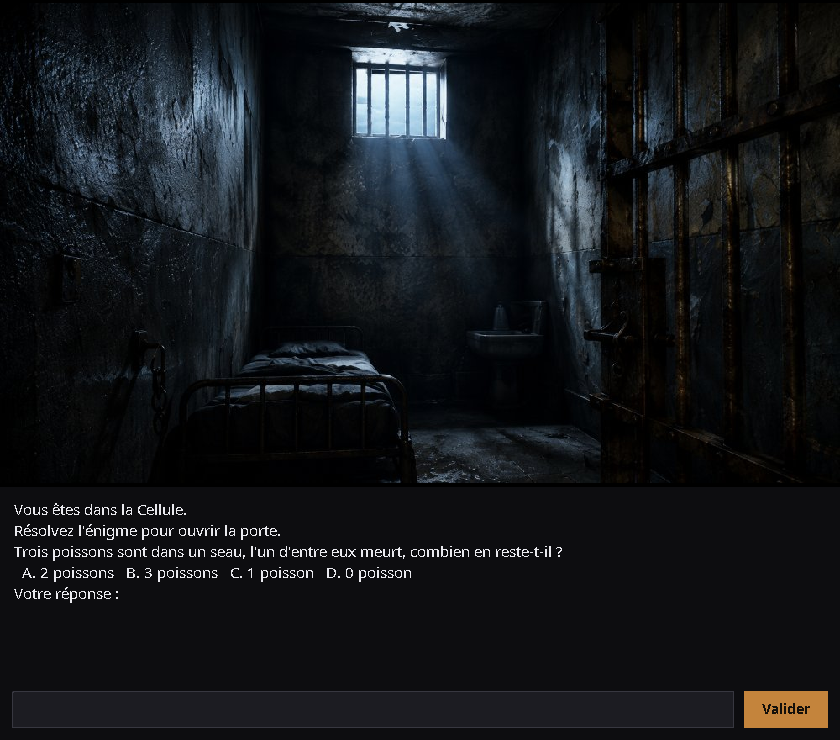
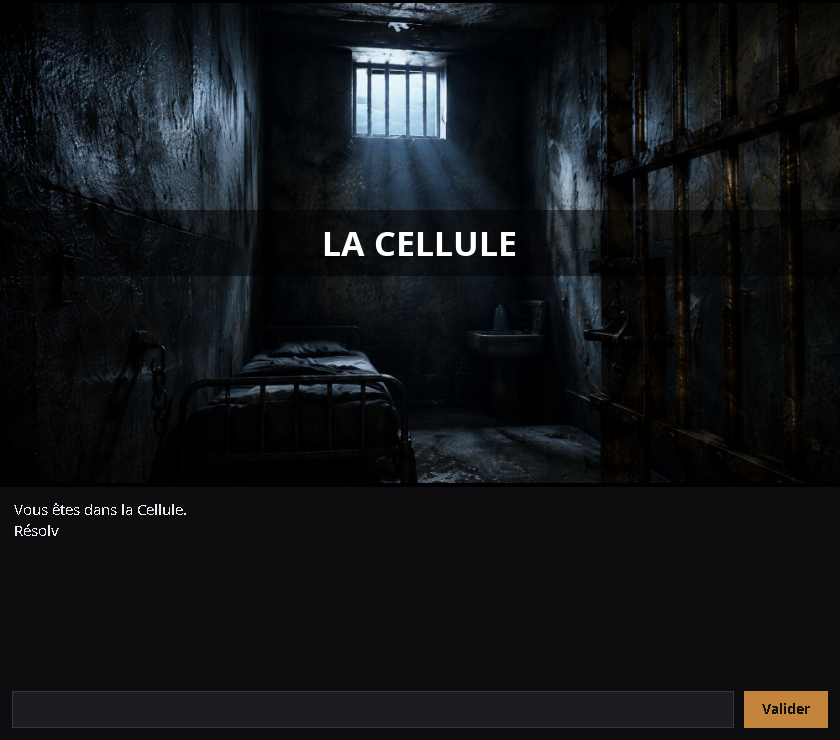
Ajoute l'effet machine à écrire et les transitions de zone animées
- texte affiché lettre par lettre : frapper() bloque le thread moteur jusqu'à la fin
  de la frappe (Timer Swing sur l'EDT), un clic sur le texte/l'image accélère l'affichage
- transition d'étape : fondu enchaîné de l'image + carton-titre de la zone qui apparaît
  puis disparaît (apparition / maintien / disparition)
- aperçu et README mis à jour (animations documentées)

Vérifié : partie complète jouée de bout en bout via l'UI (victoire) sans interblocage
entre le thread moteur et l'EDT.

diff --git a/src/main/java/com/escapegame/ui/FenetreJeu.java b/src/main/java/com/escapegame/ui/FenetreJeu.java
@@ -3,9 +3,9 @@ package com.escapegame.ui;
 import com.escapegame.auth.DepotJoueurs;
 import com.escapegame.game.Partie;
 import com.escapegame.io.EntreeSortie;
+import com.escapegame.world.Zone;
 
 import javax.swing.BorderFactory;
-import javax.swing.Box;
 import javax.swing.BoxLayout;
 import javax.swing.JButton;
 import javax.swing.JFrame;
@@ -14,15 +14,24 @@ import javax.swing.JScrollPane;
 import javax.swing.JTextArea;
 import javax.swing.JTextField;
 import javax.swing.SwingUtilities;
+import javax.swing.Timer;
+import java.awt.AlphaComposite;
 import java.awt.BorderLayout;
 import java.awt.Color;
+import java.awt.Composite;
+import java.awt.Cursor;
 import java.awt.Dimension;
 import java.awt.Font;
+import java.awt.FontMetrics;
 import java.awt.Graphics;
-import java.awt.Image;
+import java.awt.Graphics2D;
+import java.awt.RenderingHints;
+import java.awt.event.MouseAdapter;
+import java.awt.event.MouseEvent;
 import java.awt.image.BufferedImage;
 import java.util.Random;
 import java.util.concurrent.BlockingQueue;
+import java.util.concurrent.CountDownLatch;
 import java.util.concurrent.LinkedBlockingQueue;
 
 /**
@@ -31,8 +40,16 @@ import java.util.concurrent.LinkedBlockingQueue;
  *
  * <p>Implémente {@link EntreeSortie} : c'est exactement la même interface que la console,
  * donc le moteur {@link Partie} fonctionne sans modification. Le moteur s'exécute sur un
- * thread dédié ; les saisies transitent par une file bloquante alimentée par l'EDT,
- * tandis que tous les affichages sont renvoyés sur l'EDT via {@code invokeLater}.</p>
+ * thread dédié ; les saisies transitent par une file bloquante alimentée par l'EDT.</p>
+ *
+ * <p>Deux animations rythment la partie :</p>
+ * <ul>
+ *   <li><b>texte lettre par lettre</b> : chaque message s'écrit caractère par caractère ;
+ *       le thread moteur attend la fin de la frappe avant de continuer (un clic sur le
+ *       texte ou l'image accélère l'affichage) ;</li>
+ *   <li><b>transition de zone</b> : à chaque nouvelle étape, l'image change en fondu
+ *       enchaîné et le nom de la zone apparaît brièvement en carton-titre.</li>
+ * </ul>
  */
 public class FenetreJeu extends JFrame implements EntreeSortie {
 
@@ -44,6 +61,9 @@ public class FenetreJeu extends JFrame implements EntreeSortie {
     private static final Color TEXTE = new Color(233, 233, 238);
     private static final Color ACCENT = new Color(196, 132, 60);
 
+    /** Délai entre deux caractères de l'effet machine à écrire. */
+    private static final int DELAI_FRAPPE_MS = 11;
+
     private final PanneauImage panneauImage = new PanneauImage();
     private final JTextArea zoneTexte = new JTextArea();
     private final JTextField champSaisie = new JTextField();
@@ -51,6 +71,12 @@ public class FenetreJeu extends JFrame implements EntreeSortie {
 
     private final ImagesZones images = new ImagesZones();
     private final BlockingQueue<String> fileSaisie = new LinkedBlockingQueue<>();
+
+    // État de la frappe en cours (manipulé uniquement sur l'EDT).
+    private Timer timerFrappe;
+    private String resteAFrapper = "";
+    private CountDownLatch frappeTerminee;
+    private volatile boolean toutAfficher;
 
     public FenetreJeu() {
         super("Escape Game — L'Évasion");
@@ -71,10 +97,11 @@ public class FenetreJeu extends JFrame implements EntreeSortie {
         zoneTexte.setFont(new Font("SansSerif", Font.PLAIN, 15));
         zoneTexte.setBackground(FOND);
         zoneTexte.setForeground(TEXTE);
-        zoneTexte.setCaretColor(TEXTE);
+        zoneTexte.setCaretColor(FOND);
         zoneTexte.setSelectionColor(ACCENT);
         zoneTexte.setSelectedTextColor(Color.WHITE);
         zoneTexte.setBorder(BorderFactory.createEmptyBorder(12, 14, 12, 14));
+        zoneTexte.setToolTipText("Cliquez pour accélérer le texte");
 
         JScrollPane defilement = new JScrollPane(zoneTexte);
         defilement.setPreferredSize(new Dimension(820, 200));
@@ -94,11 +121,22 @@ public class FenetreJeu extends JFrame implements EntreeSortie {
         boutonValider.setForeground(new Color(20, 16, 10));
         boutonValider.setFocusPainted(false);
         boutonValider.setBorder(BorderFactory.createEmptyBorder(8, 18, 8, 18));
-        boutonValider.setCursor(new java.awt.Cursor(java.awt.Cursor.HAND_CURSOR));
+        boutonValider.setCursor(new Cursor(Cursor.HAND_CURSOR));
 
         // Entrée ou clic sur Valider → on soumet la saisie.
         champSaisie.addActionListener(e -> soumettre());
         boutonValider.addActionListener(e -> soumettre());
+
+        // Un clic sur le texte ou l'image accélère la frappe en cours.
+        MouseAdapter accelerer = new MouseAdapter() {
+            @Override
+            public void mousePressed(MouseEvent e) {
+                toutAfficher = true;
+                finirFrappe();
+            }
+        };
+        zoneTexte.addMouseListener(accelerer);
+        panneauImage.addMouseListener(accelerer);
 
         JPanel barreSaisie = new JPanel(new BorderLayout(10, 0));
         barreSaisie.setBackground(FOND);
@@ -140,7 +178,8 @@ public class FenetreJeu extends JFrame implements EntreeSortie {
     private void soumettre() {
         String texte = champSaisie.getText();
         champSaisie.setText("");
-        ajouterTexte(texte + "\n");     // écho de la saisie
+        toutAfficher = false;        // la prochaine salve de texte se réécrit lettre par lettre
+        ajouterTexte(texte + "\n");  // écho de la saisie (immédiat)
         fileSaisie.offer(texte);
     }
 
@@ -156,12 +195,12 @@ public class FenetreJeu extends JFrame implements EntreeSortie {
 
     @Override
     public void afficher(String message) {
-        ajouterTexte(message + "\n");
+        frapper(message + "\n");
     }
 
     @Override
     public void afficherSansSaut(String message) {
-        ajouterTexte(message);
+        frapper(message);
     }
 
     @Override
@@ -188,44 +227,200 @@ public class FenetreJeu extends JFrame implements EntreeSortie {
 
     @Override
     public void afficherZone(int position) {
-        SwingUtilities.invokeLater(() -> panneauImage.definirImage(images.pourZone(position)));
+        BufferedImage img = images.pourZone(position);
+        String titre = Zone.nom(position);
+        SwingUtilities.invokeLater(() -> panneauImage.changerZone(img, titre));
+    }
+
+    // ---------- Effet machine à écrire ----------
+
+    /** Écrit le texte caractère par caractère et bloque l'appelant jusqu'à la fin. */
+    private void frapper(String texte) {
+        CountDownLatch latch = new CountDownLatch(1);
+        SwingUtilities.invokeLater(() -> demarrerFrappe(texte, latch));
+        try {
+            latch.await();
+        } catch (InterruptedException e) {
+            Thread.currentThread().interrupt();
+        }
+    }
+
+    private void demarrerFrappe(String texte, CountDownLatch latch) {
+        frappeTerminee = latch;
+        if (toutAfficher) {                 // accéléré : on affiche d'un coup
+            resteAFrapper = "";
+            ajouterTexte(texte);
+            libererFrappe();
+            return;
+        }
+        resteAFrapper = texte;
+        timerFrappe = new Timer(DELAI_FRAPPE_MS, e -> {
+            if (resteAFrapper.isEmpty() || toutAfficher) {
+                finirFrappe();
+                return;
+            }
+            ajouterTexte(resteAFrapper.substring(0, 1));
+            resteAFrapper = resteAFrapper.substring(1);
+        });
+        timerFrappe.start();
+    }
+
+    /** Termine immédiatement la frappe en cours (fin naturelle ou accélération). */
+    private void finirFrappe() {
+        if (timerFrappe != null) {
+            timerFrappe.stop();
+            timerFrappe = null;
+        }
+        if (!resteAFrapper.isEmpty()) {
+            ajouterTexte(resteAFrapper);
+            resteAFrapper = "";
+        }
+        libererFrappe();
+    }
+
+    private void libererFrappe() {
+        if (frappeTerminee != null) {
+            frappeTerminee.countDown();
+            frappeTerminee = null;
+        }
     }
 
     private void ajouterTexte(String texte) {
-        SwingUtilities.invokeLater(() -> {
-            zoneTexte.append(texte);
-            zoneTexte.setCaretPosition(zoneTexte.getDocument().getLength());
-        });
+        zoneTexte.append(texte);
+        zoneTexte.setCaretPosition(zoneTexte.getDocument().getLength());
     }
 
-    /** Panneau qui peint l'image courante, mise à l'échelle et centrée (letterbox). */
+    /**
+     * Panneau d'image : peint l'illustration courante (mise à l'échelle, centrée), gère
+     * le fondu enchaîné lors d'un changement de zone et le carton-titre de la zone.
+     */
     private static final class PanneauImage extends JPanel {
         private static final long serialVersionUID = 1L;
-        private transient BufferedImage image;
+        private static final long DUREE_TITRE_MS = 1900;
+
+        private transient BufferedImage imageActuelle;
+        private transient BufferedImage imagePrecedente;
+        private float alphaFondu = 1f;
+
+        private transient String titre;
+        private long titreDebut;
+
+        private transient Timer timerFondu;
+        private transient Timer timerTitre;
 
         PanneauImage() {
             setBackground(Color.BLACK);
         }
 
-        void definirImage(BufferedImage image) {
-            this.image = image;
-            repaint();
+        void changerZone(BufferedImage image, String titre) {
+            this.imagePrecedente = this.imageActuelle;
+            this.imageActuelle = image;
+            this.alphaFondu = 0f;
+            this.titre = (titre == null) ? null : titre.toUpperCase();
+            this.titreDebut = System.currentTimeMillis();
+            demarrerFondu();
+            demarrerTitre();
+        }
+
+        private void demarrerFondu() {
+            if (timerFondu != null) {
+                timerFondu.stop();
+            }
+            timerFondu = new Timer(16, e -> {
+                alphaFondu += 0.05f;
+                if (alphaFondu >= 1f) {
+                    alphaFondu = 1f;
+                    imagePrecedente = null;
+                    timerFondu.stop();
+                }
+                repaint();
+            });
+            timerFondu.start();
+        }
+
+        private void demarrerTitre() {
+            if (timerTitre != null) {
+                timerTitre.stop();
+            }
+            timerTitre = new Timer(16, e -> {
+                if (System.currentTimeMillis() - titreDebut > DUREE_TITRE_MS) {
+                    titre = null;
+                    timerTitre.stop();
+                }
+                repaint();
+            });
+            timerTitre.start();
         }
 
         @Override
         protected void paintComponent(Graphics g) {
             super.paintComponent(g);
-            if (image == null) {
-                return;
+            Graphics2D g2 = (Graphics2D) g.create();
+            g2.setRenderingHint(RenderingHints.KEY_INTERPOLATION,
+                    RenderingHints.VALUE_INTERPOLATION_BILINEAR);
+            g2.setRenderingHint(RenderingHints.KEY_ANTIALIASING,
+                    RenderingHints.VALUE_ANTIALIAS_ON);
+            g2.setRenderingHint(RenderingHints.KEY_TEXT_ANTIALIASING,
+                    RenderingHints.VALUE_TEXT_ANTIALIAS_ON);
+
+            if (imagePrecedente != null && alphaFondu < 1f) {
+                dessinerImage(g2, imagePrecedente, 1f - alphaFondu);
             }
+            if (imageActuelle != null) {
+                dessinerImage(g2, imageActuelle, alphaFondu);
+            }
+            if (titre != null) {
+                float a = alphaTitre(System.currentTimeMillis() - titreDebut);
+                if (a > 0f) {
+                    dessinerTitre(g2, titre, a);
+                }
+            }
+            g2.dispose();
+        }
+
+        private void dessinerImage(Graphics2D g2, BufferedImage img, float alpha) {
+            float a = Math.max(0f, Math.min(1f, alpha));
+            Composite ancien = g2.getComposite();
+            g2.setComposite(AlphaComposite.getInstance(AlphaComposite.SRC_OVER, a));
             int pw = getWidth();
             int ph = getHeight();
-            double echelle = Math.min((double) pw / image.getWidth(), (double) ph / image.getHeight());
-            int w = (int) Math.round(image.getWidth() * echelle);
-            int h = (int) Math.round(image.getHeight() * echelle);
-            int x = (pw - w) / 2;
-            int y = (ph - h) / 2;
-            g.drawImage(image, x, y, w, h, this);
+            double echelle = Math.min((double) pw / img.getWidth(), (double) ph / img.getHeight());
+            int w = (int) Math.round(img.getWidth() * echelle);
+            int h = (int) Math.round(img.getHeight() * echelle);
+            g2.drawImage(img, (pw - w) / 2, (ph - h) / 2, w, h, this);
+            g2.setComposite(ancien);
+        }
+
+        private void dessinerTitre(Graphics2D g2, String texte, float alpha) {
+            int pw = getWidth();
+            int bandeH = 66;
+            int bandeY = getHeight() / 2 - bandeH / 2;
+
+            g2.setComposite(AlphaComposite.getInstance(AlphaComposite.SRC_OVER, 0.5f * alpha));
+            g2.setColor(Color.BLACK);
+            g2.fillRect(0, bandeY, pw, bandeH);
+
+            g2.setComposite(AlphaComposite.getInstance(AlphaComposite.SRC_OVER, alpha));
+            g2.setColor(Color.WHITE);
+            g2.setFont(new Font("SansSerif", Font.BOLD, 34));
+            FontMetrics fm = g2.getFontMetrics();
+            int tx = (pw - fm.stringWidth(texte)) / 2;
+            int ty = bandeY + (bandeH + fm.getAscent() - fm.getDescent()) / 2;
+            g2.drawString(texte, tx, ty);
+        }
+
+        /** Courbe d'opacité du carton-titre : apparition, maintien, disparition. */
+        private float alphaTitre(long ecoule) {
+            if (ecoule < 300) {
+                return ecoule / 300f;
+            }
+            if (ecoule < 1300) {
+                return 1f;
+            }
+            if (ecoule < DUREE_TITRE_MS) {
+                return 1f - (ecoule - 1300) / 600f;
+            }
+            return 0f;
         }
     }
 }

diff --git a/README.md b/README.md
@@ -10,7 +10,7 @@ Projet académique réalisé en équipe de 4, **repris et retravaillé** pour le
 correction des bugs bloquants, restructuration en architecture propre, moteur découplé de
 l'interface (console **et** graphique), build Maven et tests automatisés.
 
-![Aperçu de l'interface](docs/apercu.png)
+![Aperçu de l'interface — carton-titre de zone et texte qui s'écrit lettre par lettre](docs/apercu.png)
 
 ---
 
@@ -55,6 +55,10 @@ Un déroulé complet d'une partie gagnante est aussi disponible dans
 Chaque énigme laisse **3 tentatives** ; les échecs mènent à une vraie fin de partie.
 À chaque zone, l'interface graphique affiche une **illustration dédiée** sur fond noir
 (10 visuels couvrant toutes les zones, les 3 pontons partageant la même vue du vieux-port).
+
+**Animations :** le texte s'écrit **lettre par lettre** (un clic sur le texte ou l'image
+accélère l'affichage) et chaque changement d'étape se fait en **fondu enchaîné**, avec le
+nom de la zone qui apparaît brièvement en **carton-titre**.
 
 ---
 
